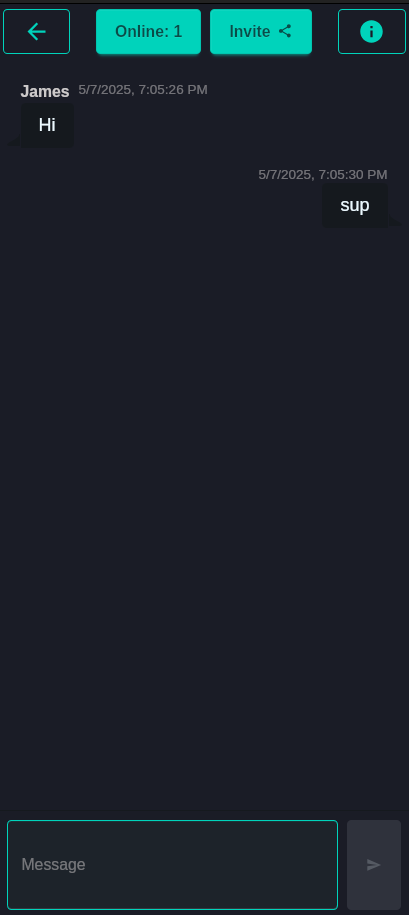
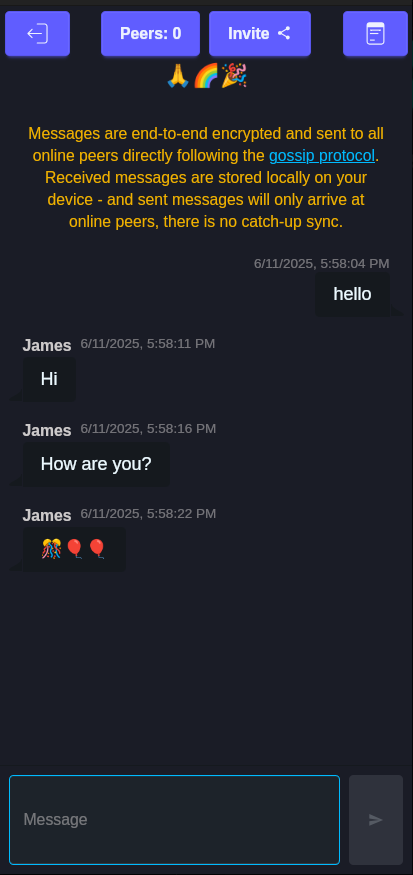
update readme

diff --git a/README.md b/README.md
@@ -9,11 +9,23 @@
 This is a peer to peer messaging app using the [Iroh Gossip Protocol](https://www.iroh.computer/proto/iroh-gossip) to send messages between peers sharing a Room.
 
 Messages are sent as events to all connected peers directly, are encrypted
-as standard and are not persisted anywhere.
+as standard and are not persisted anywhere other than on your device.
 
 This is a proof of concept based heavily on the [Iroh Chat Example](https://github.com/n0-computer/iroh-examples/tree/main/browser-chat) and modified for a [Tauri App](https://tauri.app/).
 
 This is designed for mobile first and has been tested heavily on Android.
+
+## Features
+
+- Encrypted messaging
+- peer-to-peer messaging, no servers*
+- Locally stored visited rooms list
+- Locally stored chat history
+- Emoji support 🎈🎉
+- Messages pushed only to online peers
+- Mobile support (Android only, but iOS possible if you have the dev license to compile it)
+
+*beyond Iroh rendezvous servers used for establishing connections
 
 ## Getting Started
 
